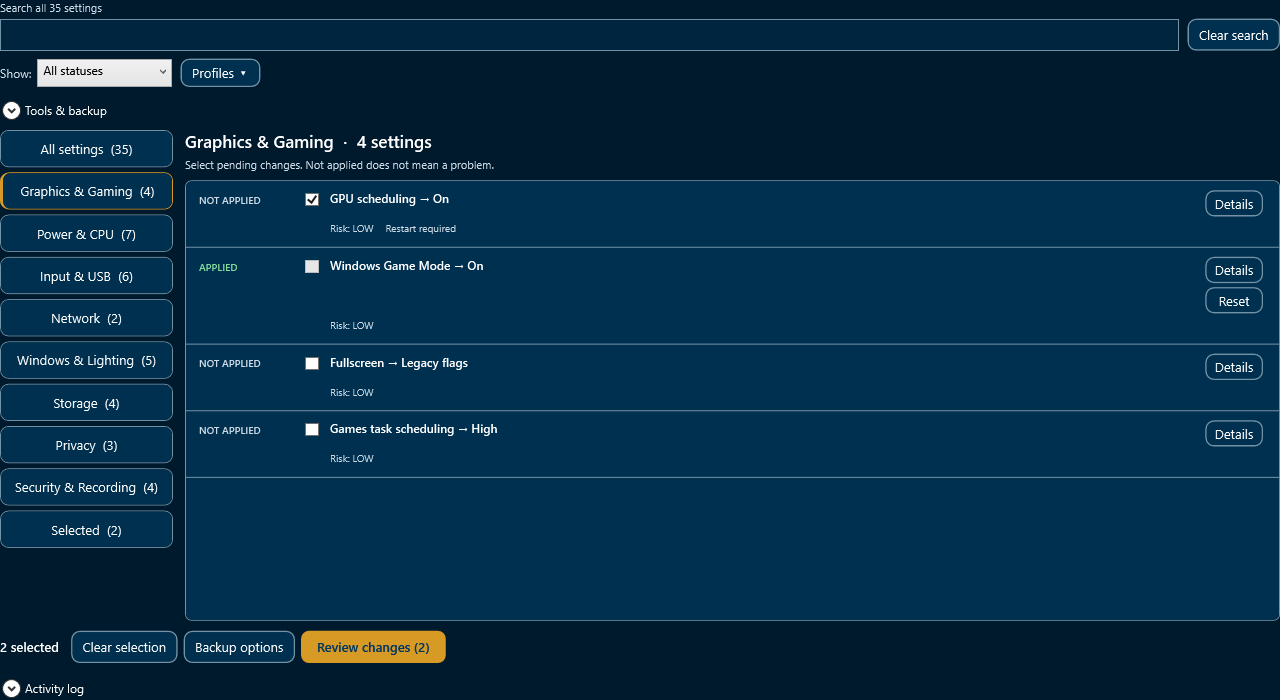
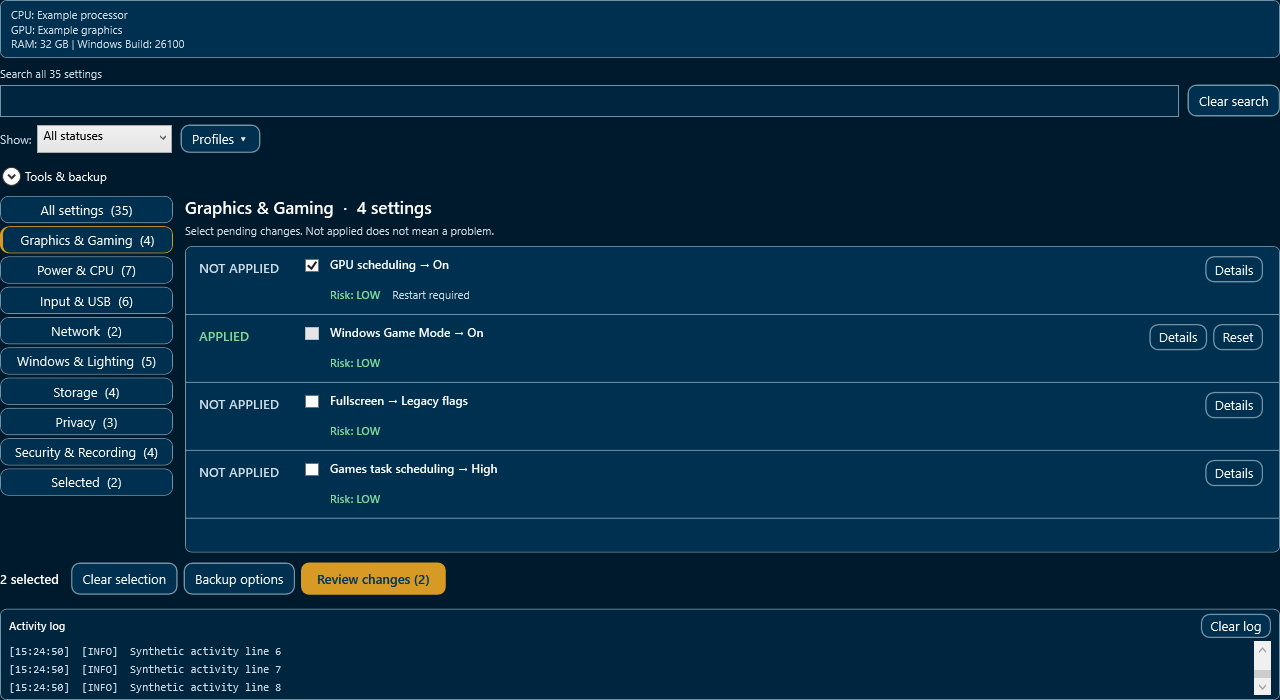
Release 2.1.8 with clearer Gaming Optimizer controls

diff --git a/README.md b/README.md
@@ -63,7 +63,7 @@ Online sessions retain profiles, backups and logs in their persistent locations.
 | 🪟 Windows | 10 / 11 (WPF required) |
 | 🔐 Admin | The application requests administrator privileges at startup; Windows may show a UAC prompt. |
 
-**Current version:** `v2.1.7`
+**Current version:** `v2.1.8`
 
 ### Shared processing indicator
 
@@ -298,7 +298,7 @@ Search matches names, categories and technical explanations across all categorie
 
 Risk is not a benefit rating. Checkboxes select pending changes, rather than acting as an on/off-state indicator. Optional input/USB controls remain manual opt-in. The fixed action bar opens **Review changes**, listing every selected target, expected effect, risk, restart requirement, shared/reset consequences and backup choices before **Apply reviewed changes**. Existing high-risk/accessibility confirmations and backup-failure gates still apply. No configuration Apply/Check/Reset scripts or risk/opt-in/mutual-exclusion rules were changed for this layout.
 
-**Profiles** groups load/save commands. **Tools & backup** groups hardware information, backup preferences, bulk selection, Recheck and Reset. **Activity log** starts collapsed and opens for warnings/errors. The optional pointer-speed and local-update controls remain under a collapsed section in **Input & USB**; pointer speed still uses its separate explicit Apply/Reset buttons.
+PC details remain visible above search. **Profiles** groups load/save commands in separate highlighted rows with a divider and no icon gutter. **Tools & backup** groups backup preferences, bulk selection, Recheck and Reset. **Activity log** stays visible with a fixed three-line text viewport; scroll to read earlier messages. Risk labels use green/orange/red for LOW/MODERATE/HIGH, configuration status uses a larger font, and **Details**/**Reset** share a horizontal row. The optional pointer-speed and local-update controls remain under a collapsed section in **Input & USB**; pointer speed still uses its separate explicit Apply/Reset buttons.
 
 The settings list scrolls independently while navigation and actions stay in the viewport. Narrow workspaces use a category picker and wrapping action controls. Layout tests exercise 540/900/1280-pixel workspaces in both themes, short viewports, search, persistent selection, review cancellation and the actual shell container with synthetic states. These tests do not change Windows settings. The screenshot above illustrates the workspace using synthetic configuration states.
 
@@ -801,7 +801,10 @@ Register-PowerToolsModule `
 
 # 📋 Version History
 
-## v2.1.7 (Current) - 2026-11-18
+## v2.1.8 (Current) - 2026-11-18
+- Keep Gaming Optimizer PC details and a three-line activity log visible, separate profile commands visually, color all risk labels, enlarge configuration status and place Details/Reset side by side.
+
+## v2.1.7 (Previous) - 2026-11-18
 - Frame the logo on all four sides, default to Dark mode on every launch and activate/focus the main window once after its first render.
 
 ## v2.1.6 (Previous) - 2026-11-18
@@ -935,7 +938,7 @@ MIT
 
 # 👤 Author
 **ReAlNoMo**
-Version 2.1.7 • November 2026
+Version 2.1.8 • November 2026
 
 ---
 

diff --git a/docs/README.md b/docs/README.md
@@ -1,6 +1,6 @@
 # WindowsAcolyte - Project Overview
 
-Current version: `v2.1.7` (2026-11-18).
+Current version: `v2.1.8` (2026-11-18).
 
 This overview accompanies the [main README](https://github.com/ReAlNoMo/WindowsAcolyte/blob/main/README.md). Paths below are relative to the Git repository root. The local workspace also keeps a matching copy of this overview one directory above the checkout.
 
@@ -26,6 +26,8 @@ WindowsAcolyte is a Windows PowerShell 7 + WPF desktop toolkit for administratio
 | Recommended Tools | Gaming Performance | Thirteen entries grouped into GPU/drivers, CPU/RAM, monitor/mouse, diagnostics, audio and Windows utilities; Equalizer APO + Peace has separate official project links |
 
 The Linux ISO downloader does not verify checksums or resume interrupted downloads. The AV scanner downloader checks the file size and MZ executable header, not a checksum or publisher signature. Verify downloads independently using official publisher checksums or signatures before use.
+
+The Gaming Optimizer keeps PC details and a three-line activity-log viewport visible. Risk labels use green/orange/red; enlarged status text and side-by-side Details/Reset controls keep rows readable and compact. The profile menu separates Load/Save commands with themed rows and a divider.
 
 The shell uses logo-aligned navy/gold Light and Dark themes with tonal backgrounds and labeled green/red status colors. Each launch starts in Dark mode, with a full logo frame and a one-time request to bring the rendered main window to the foreground and give it keyboard focus. Switching themes preserves the open view and selections; the hardware HTML report follows the same palette. The shell also supports category tiles, JSONL exception logging and an active-operation guard for downloads/hash/report work during theme changes, navigation and app close. Documentation screenshots may show an earlier version.
 

diff --git a/DISCLAIMER.md b/DISCLAIMER.md
@@ -175,7 +175,7 @@ Before applying advanced or high-risk changes, users are strongly encouraged to:
 ---
 
 **WindowsAcolyte**
-Version 2.1.6 • ReAlNoMo
+Version 2.1.8 • ReAlNoMo
 
 ## External links in Recommended Tools
 
